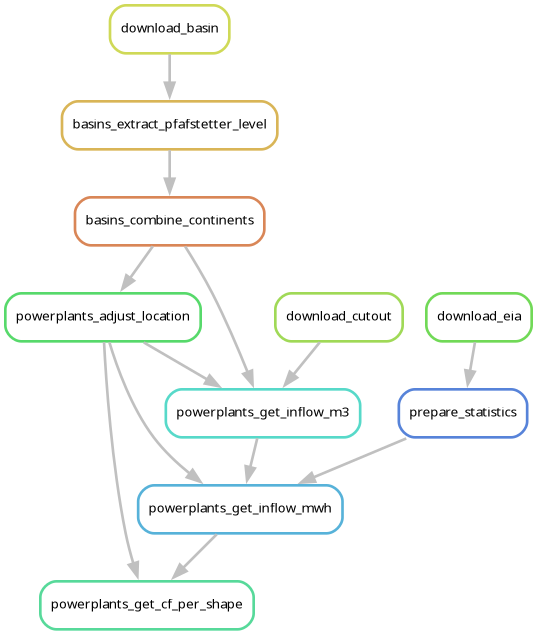
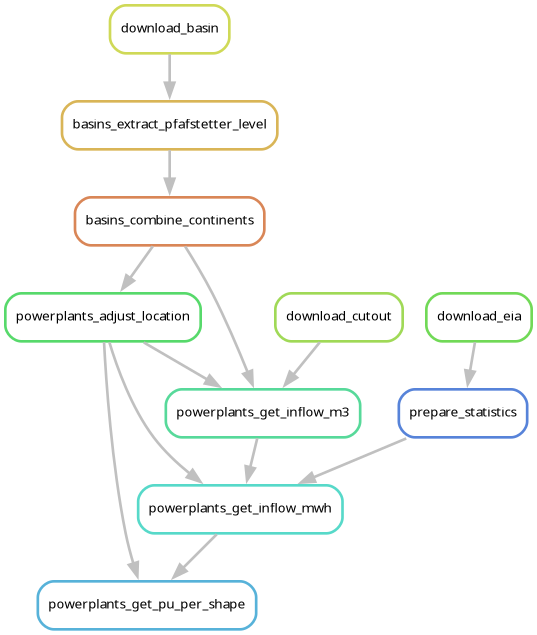
new figures

diff --git a/README.md b/README.md
@@ -4,7 +4,7 @@ A module to calculate hydropower inflow timeseries for facilities around the glo
 
 <!-- Place an attractive image of module outputs here -->
 <p align="center">
-  <img src="./figures/hydro_dam_cf.png" width="80%">
+  <img src="./figures/reservoir_inflow_pu.png" width="80%">
 </p>
 
 ## About
@@ -27,6 +27,11 @@ Data processing steps:
 
 1. A global dataset of hydro basins is created for a requested Pfafstetter level using data from the [HydroBASINS](https://www.hydrosheds.org/products/hydrobasins) dataset.
 2. Individual powerplant locations (provided by the user) are adjusted using a buffer distance to ensure their location is within the nearest basin.
+
+<p align="center">
+  <img src="./figures/adjusted_powerplants.png" width="60%">
+</p>
+
 3. User provided shapes, powerplants and configuration are used to construct a data request to the [Copernicus Data Store](https://cds.climate.copernicus.eu/) using the [`atlite` library](https://github.com/PyPSA/atlite).
 4. `atlite` is used to construct inflow timeseries per powerplant.
 5. Inflow timeseries are combined and aggregated to the requested resolution, using national-level statistics from the [EIA](https://www.eia.gov/international/) as a guiding normalisation heuristic for total generation.
@@ -34,6 +39,10 @@ Data processing steps:
 The relation is $InflowMWh_{t,r} = PU_{t,r} \cdot Cap_{r}$, where $Cap_r$ is the capacity per region.
     - For run of river powerplants, the timeseries are capped so they may not exceed available capacity.
     - For reservoirs, the timeseries are capped so inflow cannot exceed 10 times the available capacity.
+
+<p align="center">
+  <img src="./figures/reservoir_inflow_pu.png" width="60%">
+</p>
 
 > [!CAUTION]
 > Please be aware of the following limitations.
